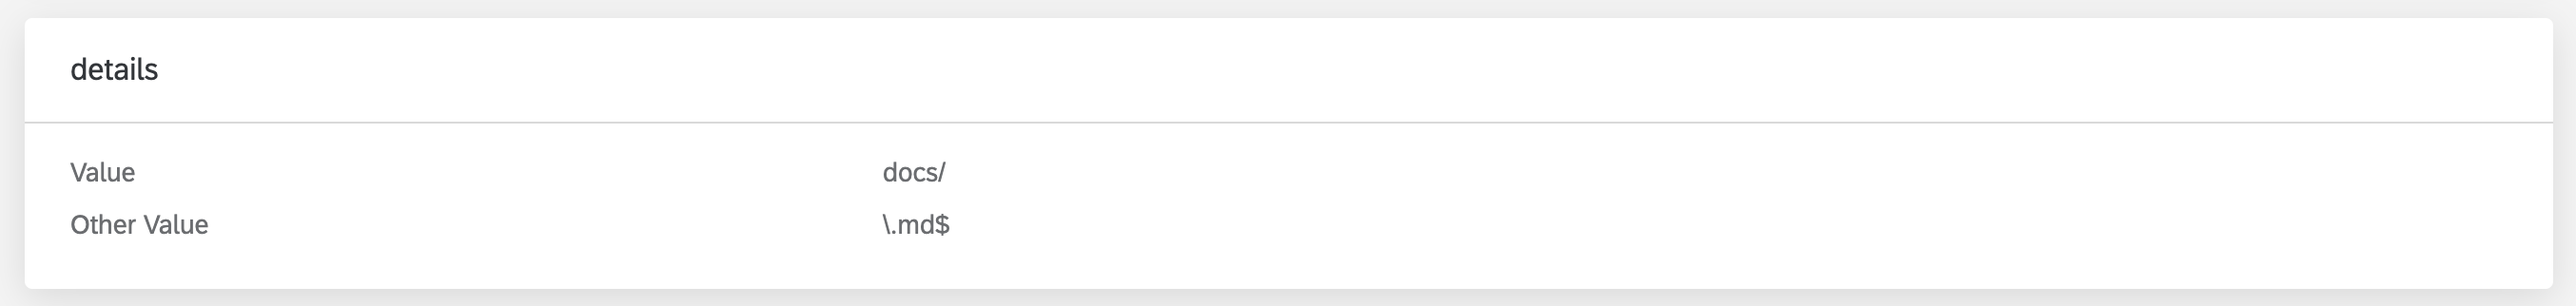
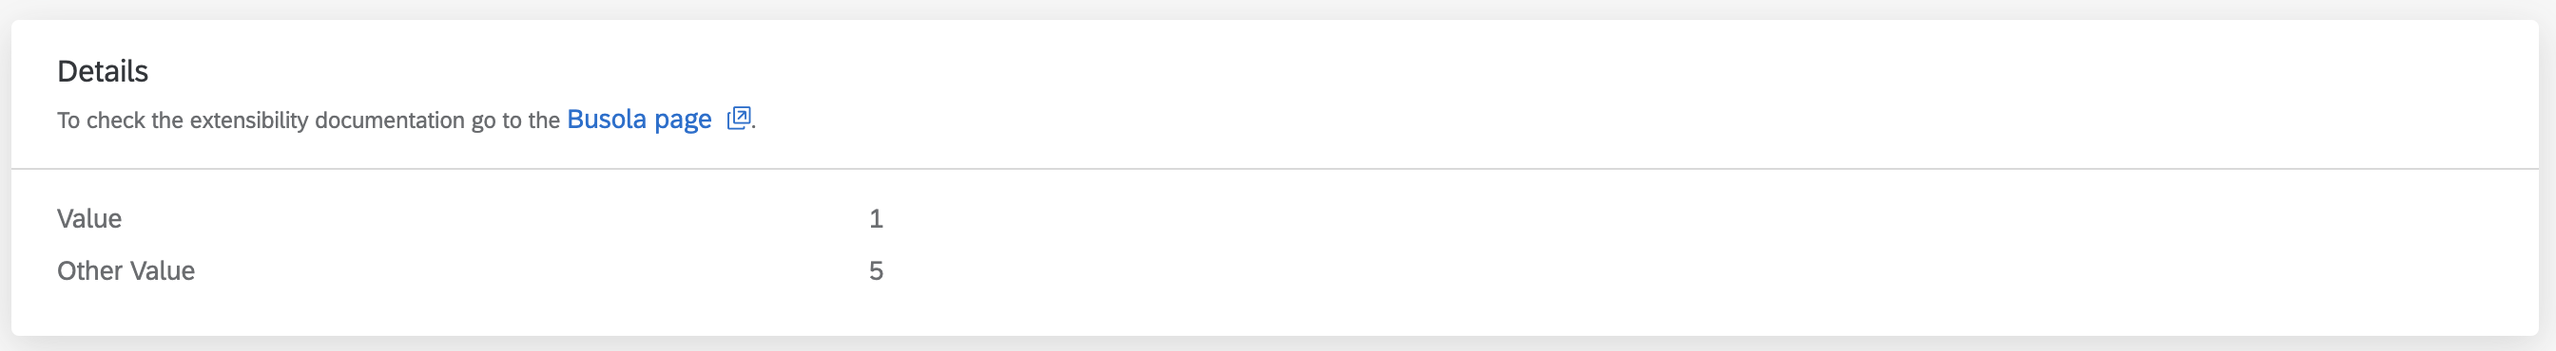
Adjust docs

diff --git a/docs/extensibility/display-section.md b/docs/extensibility/display-section.md
@@ -267,9 +267,9 @@ When no highlights are provided, the following values are automatically handled:
 }
 ```
 
-<img src="./assets/display-widgets/Badge.png" alt="Example of a badge widget" width="20%" style="border: 1px solid #D2D5D9">
+<img src="./assets/display-widgets/Badge.png" alt="Example of a badge widget" width="40%" style="border: 1px solid #D2D5D9">
 <br/><br/>
-<img src="./assets/display-widgets/Bagde2.png" alt="Example of a badge widget with a tooltip" width="20%" style="border: 1px solid #D2D5D9">
+<img src="./assets/display-widgets/Bagde2.png" alt="Example of a badge widget with a tooltip" width="40%" style="border: 1px solid #D2D5D9">
 
 ### ControlledBy
 
@@ -293,7 +293,7 @@ ControlledBy widgets render the kind and the name with a link to the resources t
 }
 ```
 
-<img src="./assets/display-widgets/ControlledBy.png" alt="Example of a ControlledBy widget" width="50%" style="border: 1px solid #D2D5D9">
+<img src="./assets/display-widgets/ControlledBy.png" alt="Example of a ControlledBy widget" width="40%" style="border: 1px solid #D2D5D9">
 
 ##### Kind only
 
@@ -306,7 +306,7 @@ ControlledBy widgets render the kind and the name with a link to the resources t
 }
 ```
 
-<img src="./assets/display-widgets/ControlledBy--kindOnly.png" alt="Example of a ControlledBy widget without name link" width="50%" style="border: 1px solid #D2D5D9">
+<img src="./assets/display-widgets/ControlledBy--kindOnly.png" alt="Example of a ControlledBy widget without name link" width="40%" style="border: 1px solid #D2D5D9">
 
 ### JoinedArray
 
@@ -346,7 +346,7 @@ Labels widgets render all the array or object entries in the `value` or `key-val
 }
 ```
 
-<img src="./assets/display-widgets/Labels.png" alt="Example of a Labels widget" width="20%" style="border: 1px solid #D2D5D9">
+<img src="./assets/display-widgets/Labels.png" alt="Example of a Labels widget" width="40%" style="border: 1px solid #D2D5D9">
 
 ### ResourceLink
 
@@ -374,7 +374,7 @@ ResourceLink widgets render internal links to Kubernetes resources.
 }
 ```
 
-<img src="./assets/display-widgets/ResourceLink.png" alt="Example of a ResourceLink widget" style="border: 1px solid #D2D5D9">
+<img src="./assets/display-widgets/ResourceLink.png" alt="Example of a ResourceLink widget" width="40%" style="border: 1px solid #D2D5D9">
 
 ##### _translations_ section
 
@@ -403,7 +403,7 @@ Text widgets render values as a simple text. This is the default behavior for al
 }
 ```
 
-<img src="./assets/display-widgets/Text.png" alt="Example of a text widget" width="20%" style="border: 1px solid #D2D5D9">
+<img src="./assets/display-widgets/Text.png" alt="Example of a text widget" width="40%" style="border: 1px solid #D2D5D9">
 
 ## Block widgets
 
@@ -504,8 +504,9 @@ Panel widgets render an object as a separate panel with its own title (based on 
 ```json
 [
   {
-    "name": "details",
+    "name": "Details",
     "widget": "Panel",
+    "description": "To check the extensibility documentation go to the {{[Busola page](https://github.com/kyma-project/busola/tree/main/docs/extensibility)}}.",
     "children": [
       { "source": "spec.value" },
       { "source": "spec.other-value", "placeholder": "-" }
